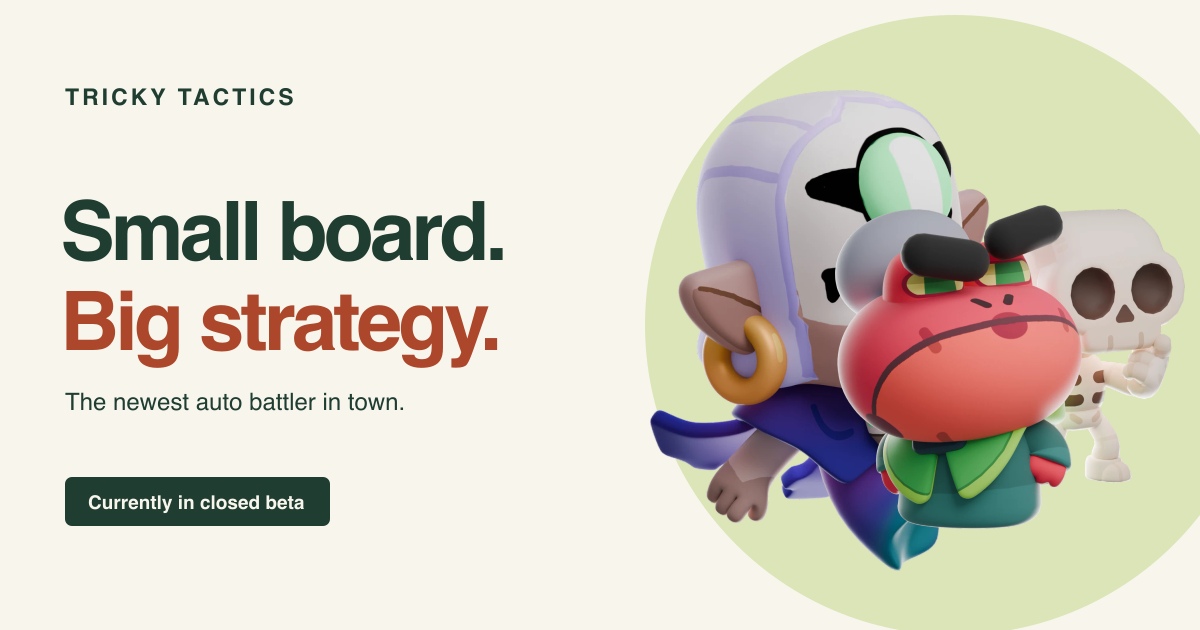
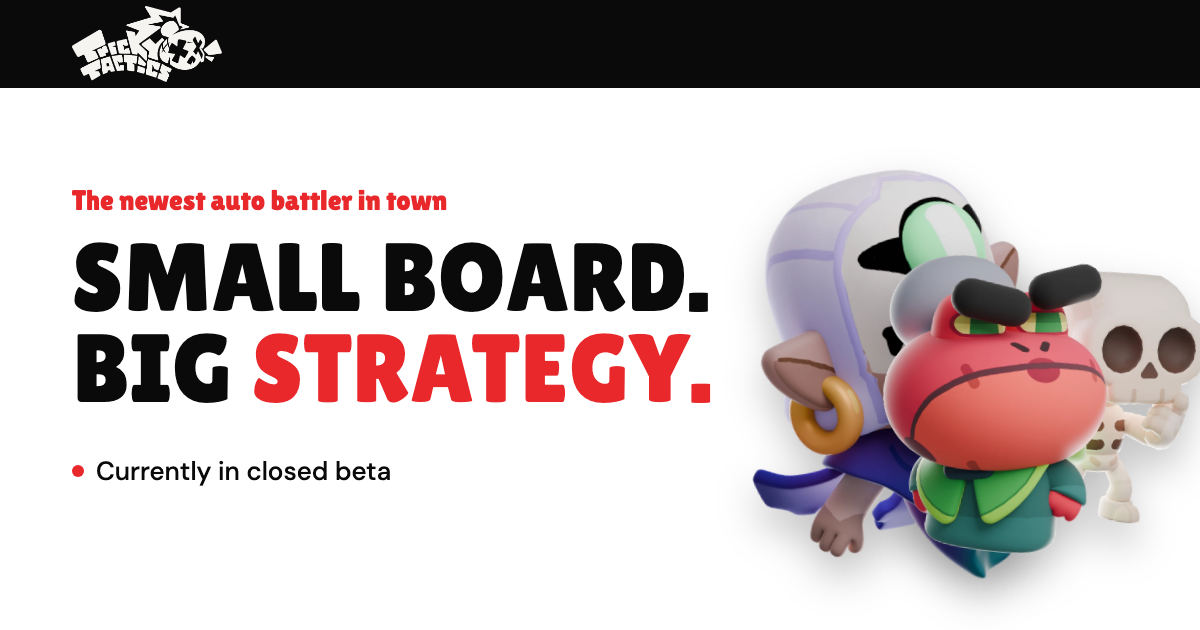
Redesign the social card to match the black-and-white site
The link preview image was still the cream-and-green card from an
earlier design. Lay the card out as HTML with the site's font, logo and
characters, and render it to static/images/social-card.png with
headless Chrome via scripts/create-social-card.mjs.

diff --git a/scripts/social-card/card.html b/scripts/social-card/card.html
@@ -1,0 +1,35 @@
+<!doctype html>
+<html lang="en">
+<head>
+<meta charset="utf-8" />
+<style>
+  @font-face { font-family: 'Lilita One'; src: url('../../static/fonts/lilita-one.woff2') format('woff2'); }
+  @font-face { font-family: 'DM Sans'; src: url('../../static/fonts/dm-sans.woff2') format('woff2'); font-weight: 400 700; }
+  html, body { margin: 0; }
+  .card { position: relative; width: 1200px; height: 630px; overflow: hidden; background: #fff; color: #0a0a0a; font-family: 'DM Sans', sans-serif; }
+  .bar { position: absolute; inset: 0 0 auto; height: 88px; background: #0a0a0a; display: flex; align-items: center; padding-inline: 72px; }
+  .bar img { width: 150px; filter: invert(1); }
+  .copy { position: absolute; left: 72px; top: 184px; }
+  .eyebrow { font-family: 'Lilita One'; font-size: 28px; color: #e8282b; margin: 0 0 16px; }
+  h1 { font-family: 'Lilita One'; font-weight: 400; font-size: 96px; line-height: .95; white-space: nowrap; letter-spacing: .01em; text-transform: uppercase; margin: 0; }
+  h1 span { color: #e8282b; }
+  .status { display: flex; align-items: center; gap: 12px; margin-top: 40px; font-size: 26px; font-weight: 500; }
+  .status i { width: 12px; height: 12px; border-radius: 50%; background: #e8282b; }
+  .art { position: absolute; filter: drop-shadow(0 20px 20px #00000040); }
+  .hexcaster { width: 330px; left: 740px; top: 170px; transform: rotate(-8deg); }
+  .frog { width: 320px; left: 880px; top: 260px; transform: rotate(6deg); }
+</style>
+</head>
+<body>
+  <div class="card">
+    <div class="bar"><img src="../../static/images/Logo.png" alt="" /></div>
+    <div class="copy">
+      <p class="eyebrow">The newest auto battler in town</p>
+      <h1>Small board.<br />Big <span>strategy.</span></h1>
+      <p class="status"><i></i>Currently in closed beta</p>
+    </div>
+    <img class="art hexcaster" src="../../src/assets/characters/hexcaster-three-quarter.webp" alt="" />
+    <img class="art frog" src="../../src/assets/characters/frog-witch.webp" alt="" />
+  </div>
+</body>
+</html>
